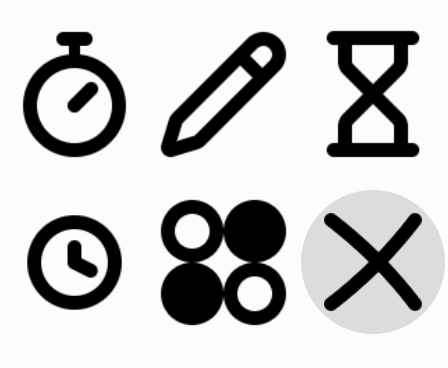
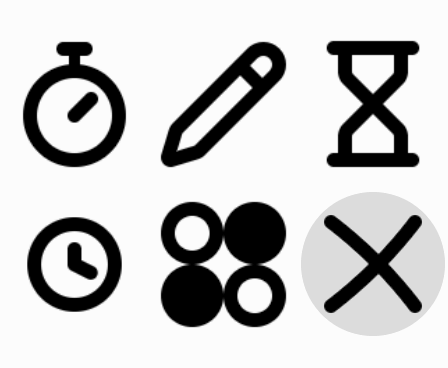
menu: a cell that grows too tall makes centring impossible, quietly
menu_grid_y0() centres the block and clamps so centring never spends the
cancel floor. Nothing guaranteed the clamp would not ALWAYS bind, and at six
apps it did: byHeight gave a 168px cell, the grid came to 336, and splitting
32px of slack would have left 16 below against a floor of 22 - so the block
was pinned at the top inset and "centred" meant "packed against the top".
The code's own comment claimed five and six apps "centre freely". Measured
off the rendered panel: 31px of paper above the ink, 43 below. The owner saw
it without being asked: "je crois que le menu est pas très centré".

menu_cell_h() now carries a third bound, the height that still leaves a
cancel floor on BOTH sides. Six apps take 160 instead of 168 and sit 41/41,
asymmetry zero. Rosters that already filled the panel are untouched: at three
rows the new term computes 108, under MENU_CELL_FLOOR, so the floor wins
exactly as before.

feature-menu-hover 24/24, repro-menu-icon-resample-ghost 6/6.

Still open, and visible in the same preview: the icons do not share an
optical size. They are scaled from Lucide's 24x24 grid by one factor, and
Lucide's own artwork does not fill that grid equally - the clock's ink spans
95px on the panel where the four-dots spans 125.

Claude-Session: https://claude.ai/code/session_017hNMM6ajcQSgCyi2S7QXbH

diff --git a/devices/rp2350-amoled-1.8/tools/menu-layout.ts b/devices/rp2350-amoled-1.8/tools/menu-layout.ts
@@ -57,7 +57,12 @@ export function menuCellH(n: number): number {
     narrowest = Math.min(narrowest, Math.floor(LAND_W / rowSpan(n, r).cols));
   }
   const byWidth = Math.floor((narrowest * 6) / 5); // menu.c: up to 1.2x width
-  return Math.max(Math.floor(Math.min(byHeight, byWidth) / 8) * 8, MENU_CELL_FLOOR);
+  // menu.c's third bound: never grow so tall that menu_grid_y0()'s clamp is
+  // forced to bind, which would silently turn "centred" into "packed against
+  // the top inset". See menu_cell_h()'s own comment for the six-app case that
+  // exposed it.
+  const byCentred = Math.floor((LAND_H - 2 * MENU_CANCEL_FLOOR) / rows);
+  return Math.max(Math.floor(Math.min(byHeight, byWidth, byCentred) / 8) * 8, MENU_CELL_FLOOR);
 }
 
 // menu_grid_y0(): the block of rows is centred in the full landscape height,

diff --git a/devices/rp2350-amoled-1.8/firmware/apps/menu.c b/devices/rp2350-amoled-1.8/firmware/apps/menu.c
@@ -266,7 +266,25 @@ static int menu_cell_h(void) {
     // below the six-app grid while the icons sit 10px from the side bezels -
     // the asymmetry the owner reads as unsatisfying.
     int byWidth = (menu_min_row_width(rows) * 6) / 5;
+    // A THIRD BOUND: leave room to actually centre. menu_grid_y0() below
+    // centres the block and then clamps so centring never spends the cancel
+    // floor - but a grid can grow tall enough that the clamp ALWAYS binds,
+    // and then "centred" quietly means "packed against the top inset". That
+    // is what six apps did: byHeight gave 168, the grid came to 336, and
+    // centring 32px of slack would have left 16 below against a floor of 22,
+    // so the clamp pinned it at 10 top / 22 bottom. Measured off the rendered
+    // panel: 31px of paper above the ink, 43 below. The owner, unprompted:
+    // "je crois que le menu est pas très centré".
+    //
+    // So cap the height at what leaves a cancel floor's worth on BOTH sides.
+    // Six apps now get 160 instead of 168: the grid is 320, the slack 48, and
+    // the block sits 24/24 with no clamping at all. Rosters that already
+    // filled the panel are untouched - at three rows this term computes 108,
+    // below MENU_CELL_FLOOR, so the floor wins exactly as before and the
+    // eleven- and twelve-app layouts do not move.
+    int byCentred = (LAND_H - 2 * MENU_CANCEL_FLOOR) / rows;
     int h = byHeight < byWidth ? byHeight : byWidth;
+    if (byCentred < h) h = byCentred;
     h = (h / 8) * 8;
     if (h < MENU_CELL_FLOOR) h = MENU_CELL_FLOOR;
     return h;
